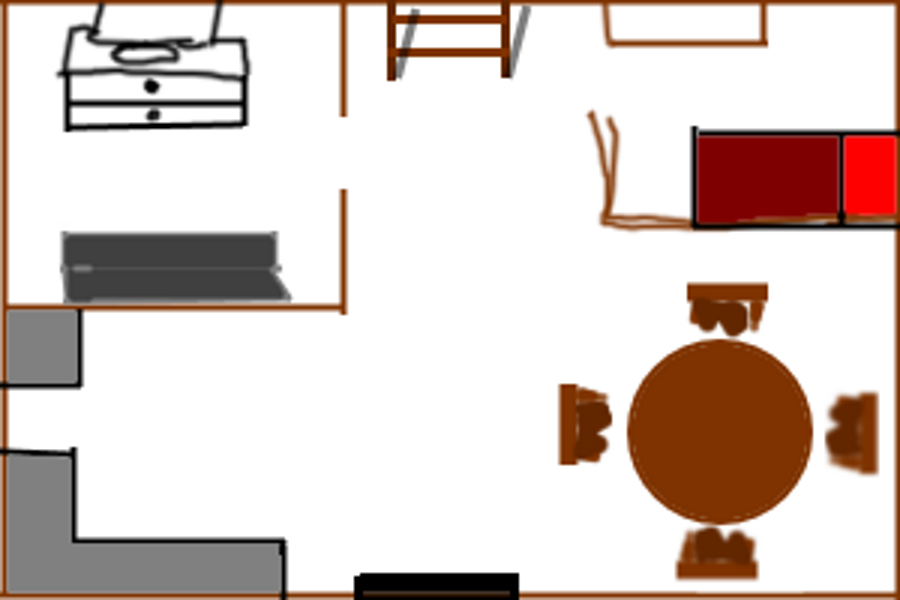
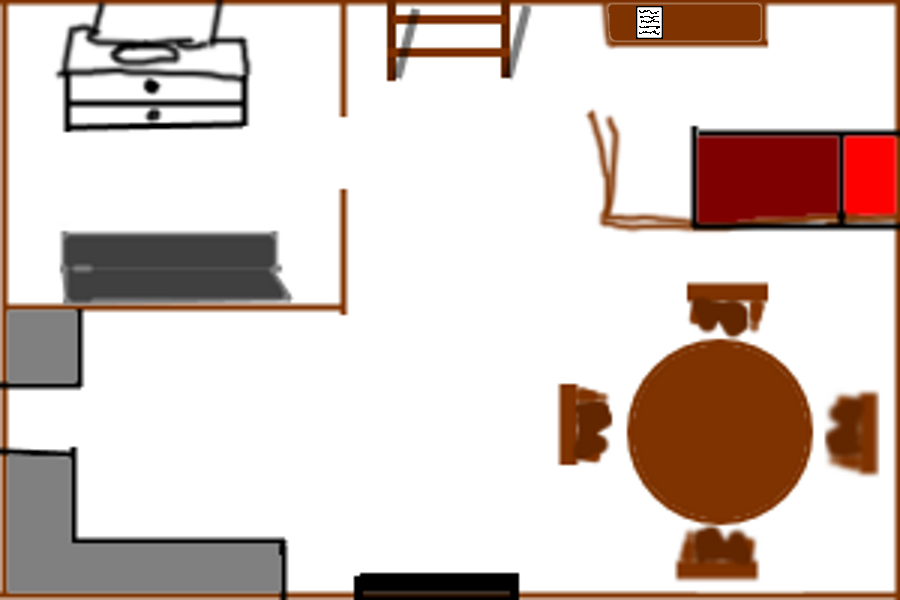
added a bunch of graphics
zombie models, more dialogue, updated a typing error, added the note, added the base screen for the battle. and fixed a bunch of bugs

Changed region(s): [[0.6533, 0.0, 0.8711, 0.09]]

diff --git a/script.js b/script.js
@@ -39,17 +39,23 @@ var inventoryOpen = false // is the inventory open
 var inventorySelection = 0 // what is selected in the inventory
 var tvToggle = 0 // 0 = off 1 = on
 var dialogueOpen = false
+var toggleNote = false
 var diologueNumber = 0
 //#region diologue Numbers
 // 0 = cant go upstairs in house
 // 1 = go to sleep
-// 2 = 						
+// 2 = the note on the desk
+// 3 = cant go to sleep
 //#endregion
 var dia0 = new Image()
-dia0.src = 'dialogue/dia0.png'																																																																																																																																																																																																																																																																	
+dia0.src = 'dialogue/dia0.png'
+var dia3 = new Image()
+dia3.src = 'dialogue/dia3.png'
+
 
 var BGxPosition = 0
 var BGyPosition = 0
+var startingStage = 0
 
 // variables for the house in the game
 var houseBackground = new Image()
@@ -64,6 +70,10 @@ var tvOff = new Image()
 tvOff.src = 'insideHouse/tvOff.png'
 var tvOn = new Image()
 tvOn.src = 'insideHouse/tvOn.png'
+var deskWithNote = new Image()
+deskWithNote.src = 'insideHouse/DeskWithNote.png'
+var note = new Image()
+note.src = 'insideHouse/Note.png'
 
 var bedXPosition = 0 // width = 210
 var bedYPosition = 0 // height = 102
@@ -73,17 +83,23 @@ var stairsXPosition = 0 // width = 156
 var stairsYPosition = 0 // height = 93
 var doorXPosition = 0 // width = 165
 var doorYPosition = 0 // height = 27
+var deskXPosition = 0 // width = 182
+var deskYPosition = 0 // height = 54
 
 // variables used for mars in the game
 var marsHouseDoor = new Image()
 marsHouseDoor.src = 'mars/yourHosueDoor.png'
 var marsFoodCafe = new Image()
 marsFoodCafe.src = 'mars/buyFromCafe.png'
+var lieutenant = new Image()
+lieutenant.src = 'characters/lieutenant.png'
 
 var marsDoorXPosition = 0 // width = 133
 var marsDoorYPosition = 0 // height = 200
 var cafeXPosition = 0 // width = 263
 var cafeYPosition = 0 // height = 148
+var lieutenantXPosition = 0 // width = 92
+var lieutenantYPosition = 0 // height = 127
 
 //tutorial variables
 var tutorialScreen = 0
@@ -173,6 +189,12 @@ var astronautLeft = new Image()
 astronautLeft.src = 'characters/astronautLeft.png'
 var astronautRight = new Image()
 astronautRight.src = 'characters/astronautRight.png'
+var zombieIdle = new Image()
+zombieIdle.src = 'zombies/zombie_idle.png'
+var zombieFlex = new Image()
+zombieFlex.src = 'zombies/zombie_flex.png'
+var zombieMoving = new Image()
+zombieMoving.src = 'zombies/zombie_moving.png'
 //#endregion
 
 //#region lore backgrounds
@@ -188,6 +210,9 @@ var P5 = new Image()
 P5.src = 'backgrounds/P5.png' // mars
 var P6 = new Image()
 P6.src = 'backgrounds/P6.png' // earth jungle
+
+var battle = new Image()
+battle.src = 'ExtraResources/Battle.png'
 //#endregion
 
 var marsBackground = new Image()
@@ -218,24 +243,27 @@ function updateCanvas(){
 	detectStairsCollision()
 	detectTVCollision()	
 	detectDoorCollision()
+	detectDeskCollision()
 	marsThings()
 	detectMarsDoorCollision()
 	detectCafeCollision()
 	updateMarsPositions()
 	manageInventory()
 
-
-
+	//console.log(zPressed) //this is my testing console.log
 
 	chracterFacing()
+	toggleNoteF()
 
 	ctx.strokeStyle = "rgb(0,255,0)" // Draw the hitboxes bright green
-	ctx.strokeRect(tvXPosition, tvYPosition, 225, 141)
-	ctx.strokeRect(bedXPosition, bedYPosition, 210, 102)
-	ctx.strokeRect(stairsXPosition, stairsYPosition, 156, 93)
-	ctx.strokeRect(doorXPosition, doorYPosition, 165, 27)
-	ctx.strokeRect(marsDoorXPosition,marsDoorYPosition, 133, 200)
-	ctx.strokeRect(cafeXPosition, cafeYPosition,263, 148)
+	ctx.strokeRect(tvXPosition, tvYPosition, 225, 141) // tv
+	ctx.strokeRect(bedXPosition, bedYPosition, 210, 102) // bed
+	ctx.strokeRect(stairsXPosition, stairsYPosition, 156, 93) // stairs
+	ctx.strokeRect(doorXPosition, doorYPosition, 165, 27) // door
+	ctx.strokeRect(marsDoorXPosition,marsDoorYPosition, 133, 200) // mars
+	ctx.strokeRect(cafeXPosition, cafeYPosition,263, 148) // cafe
+	ctx.strokeRect(deskXPosition, deskYPosition, 182, 54) // desk
+	ctx.strokeRect(lieutenantXPosition,lieutenantYPosition,PLAYERWIDTH,PLAYERHEIGHT)
 }
 
 //#region tutorialthings
@@ -359,9 +387,11 @@ function checkStage(){
 		if (goodCode){
 			ctx.drawImage(saveLoaded,0,100,640,100)
 		}
+	} else if (stage == 69){
+		ctx.drawImage(battle, 0,0,WIDTH,HEIGHT)
 	}
 }
- function manageInventory(){
+function manageInventory(){
 	if(stage == 4 || stage == 5 || stage == 6){ // only in active game states
 		if (!inventoryOpen){ // if the inventory isnt open
 			ctx.drawImage(inventoryClosed,0,0) // draw the image of it closed
@@ -468,12 +498,15 @@ function updateHousePositions(){
 	stairsYPosition = BGyPosition
 	doorXPosition = BGxPosition + 355
 	doorYPosition = BGyPosition + 575
+	deskXPosition = BGxPosition + 590
+	deskYPosition = BGyPosition
 }
 function houseThings(){
 	if (stage == 5){
 		ctx.drawImage(houseDoor, doorXPosition, doorYPosition)
 		ctx.drawImage(houseBed, bedXPosition, bedYPosition)
 		ctx.drawImage(houseStairs, stairsXPosition, stairsYPosition)
+		ctx.drawImage(deskWithNote, deskXPosition, deskYPosition)
 		if (tvToggle == 0){
 			ctx.drawImage(tvOff, tvXPosition, tvYPosition)
 		} else if (tvToggle == 1){
@@ -481,16 +514,47 @@ function houseThings(){
 		}
 	}
 }
+function toggleNoteF(){
+	if (stage == 5){
+		if (toggleNote == true){
+			if (diologueNumber == 2){
+				ctx.drawImage(note,0,0,WIDTH,HEIGHT)
+				setTimeout(() => {checkZ();}, 250)
+			} else if (diologueNumber == 0){
+				ctx.drawImage(dia0,0,0, WIDTH,HEIGHT)
+				console.log("Second floor")
+				setTimeout(() => {checkZ();}, 250)
+			} else if (diologueNumber == 1){
+
+			} else if (diologueNumber == 3){
+				ctx.drawImage(dia3, 0,0,WIDTH,HEIGHT)
+				setTimeout(() => {checkZ();}, 250)
+			}
+		}
+		else {
+			return;
+		}
+	}
+}
+function checkZ(){
+	if (zPressed == true){
+		toggleNote = false
+		dialogueOpen = false
+	}
+}
 function updateMarsPositions(){
 	marsDoorXPosition = BGxPosition +  2410
 	marsDoorYPosition = BGyPosition + 559
 	cafeXPosition = BGxPosition + 570
 	cafeYPosition = BGyPosition + 1633
+	lieutenantXPosition = BGxPosition + 2200
+	lieutenantYPosition = BGyPosition + 2500
 }
 function marsThings(){
 	if (stage == 4){
 		ctx.drawImage(marsHouseDoor, marsDoorXPosition, marsDoorYPosition)
 		ctx.drawImage(marsFoodCafe, cafeXPosition, cafeYPosition)
+		ctx.drawImage(lieutenant, lieutenantXPosition, lieutenantYPosition, PLAYERWIDTH, PLAYERHEIGHT)
 	}
 }
 
@@ -504,6 +568,19 @@ function detectMarsDoorCollision(){
 			return(true)
 		}else{
 			//console.log("not touching mars door")
+			return(false)
+		}
+	}
+}
+function detectLieutenantCollision(){
+	if (stage == 4){
+		if(PLAYERXPOSITION + PLAYERWIDTH >= lieutenantXPosition && PLAYERYPOSITION + PLAYERHEIGHT >= lieutenantYPosition && PLAYERXPOSITION <= lieutenantXPosition + PLAYERWIDTH && PLAYERYPOSITION <= lieutenantYPosition + PLAYERHEIGHT)
+		{
+			ctx.drawImage(interactButton, PLAYERXPOSITION + 15, PLAYERYPOSITION - 30, 25, 25)
+			console.log("touching lieutenant")
+			return(true)
+		}else{
+			console.log("not touching lieutenant")
 			return(false)
 		}
 	}
@@ -523,6 +600,19 @@ function detectCafeCollision(){
 }
 //#endregion
 //#region house object collisions
+function detectDeskCollision(){
+	if (stage == 5){
+		if(PLAYERXPOSITION + PLAYERWIDTH >= deskXPosition && PLAYERYPOSITION + PLAYERHEIGHT >= deskYPosition && PLAYERXPOSITION <= deskXPosition + 182 && PLAYERYPOSITION <= deskYPosition + 54)
+		{
+			ctx.drawImage(interactButton, PLAYERXPOSITION + 15, PLAYERYPOSITION - 30, 25, 25)
+			//console.log("touching bed")
+			return(true)
+		}else{
+			//console.log("not touching bed")
+			return(false)
+		}
+	}
+}
 function detectBedCollision(){
 	if (stage == 5){
 		if(PLAYERXPOSITION + PLAYERWIDTH >= bedXPosition && PLAYERYPOSITION + PLAYERHEIGHT >= bedYPosition && PLAYERXPOSITION <= bedXPosition + 210 && PLAYERYPOSITION <= bedYPosition + 102)
@@ -604,7 +694,7 @@ function submitCode(){
 			warningText.innerHTML = "Please enter a code <br> Press x to close this notice"
 		} else { // if there is a code it checks it with the following list
 			if(codeInput == "121231234"){ // will send you to the first stage on earth
-				codeSelection = 0
+				startingStage = 1
 				console.log("good code")
 				goodCode = true
 				var warningText = document.getElementById("warningText")
@@ -614,7 +704,7 @@ function submitCode(){
 				BGxPosition = 69 //change this
 				BGyPosition = 420 // and this
 			} else if (codeInput == "othercode"){ // sends you to second stage on earth
-				codeSelection = 1
+				startingStage = 2
 				console.log("good code")
 				goodCode = true
 				var warningText = document.getElementById("warningText")
@@ -624,7 +714,7 @@ function submitCode(){
 				BGxPosition = 420 // and this
 				BGyPosition = 69 // and this
 			} else if (codeInput == "asdasd"){ // sends you to right before final boss battle
-				codeSelection = 2
+				startingStage = 3
 				console.log("good code")
 				goodCode = true
 				var warningText = document.getElementById("warningText")
@@ -762,6 +852,7 @@ function inGameFunction(keyboardEvent){
 			}
 		} 
 		if (keyDown == 'z' || keyDown == 'Z'){
+			zPressed = true
 			if (inventoryOpen){ // if inventory is open
 				if (inventorySelection == 0) { // open team
 					console.log("go to team")
@@ -770,17 +861,28 @@ function inGameFunction(keyboardEvent){
 					console.log("go to items")
 					//open items menu
 				} else if (inventorySelection == 2) { // save game
-					console.log("save game")
-					// give save code based off what stage you are on
+					if (stage == 5){
+						console.log("Its too early to save now")
+					} else if (stage == 6){
+						console.log("Saved Stage: Give code: 121231234")
+					} else if (stage == 7){
+						console.log("Saved Stage: Give code: othercode")
+					} else if (stage == 8){
+						console.log("Saved Stage: Give code: asdasd")
+					}
 				}
 			} else if (!inventoryOpen) { // if inventory is closed
 				if (stage == 5){ // if in the house
 					if (detectBedCollision()){// if touching bed
-						// give the bed diologue.
-						console.log("Want to sleep little cry boy")
+						toggleNote = true
+						dialogueOpen = true
+						diologueNumber = 3
 					}
 					if (detectStairsCollision()){ // if touching stairs
-						console.log("The second floor hasnt been built yet. Please come back later")
+						//console.log("The second floor hasnt been built yet. Please come back later")
+						toggleNote = true
+						dialogueOpen = true
+						diologueNumber = 0
 					}
 					if (detectDoorCollision()){ // if touching door
 						console.log("want to go outside")
@@ -794,6 +896,12 @@ function inGameFunction(keyboardEvent){
 						} else if (tvToggle == 0){
 							tvToggle = 1
 						}
+					}
+					if (detectDeskCollision()){
+						console.log("open the note on the desk")
+						diologueNumber = 2
+						dialogueOpen = true
+						toggleNote = true
 					}
 				} else if (stage == 4) { // if on mars
 					if (detectMarsDoorCollision()){
@@ -820,10 +928,11 @@ function inGameFunction(keyboardEvent){
 		}
 	}
 }
-
-
 function keyDownFunction(keyboardEvent){
 	var keyDown = keyboardEvent.key
+	if (keyDown == 'o'){
+		stage = 69 // the test scene for the game, i just wanna make sure it works
+	}
 	if (keyDown == 'x' || keyDown == 'X'){
 		var warningText = document.getElementById("warningText")
 		var errorCode = document.getElementById("errorCode")
@@ -849,11 +958,15 @@ function keyDownFunction(keyboardEvent){
 		}	
 		if (keyDown == 'z' || keyDown == 'Z'){ // pressing z will send you to different screens depending on where the selector is.
 			if(playerSelection == 0){
-				if (codeSelection == 0){ // start from the beginning
+				if (startingStage == 0){
+					BGxPosition = -500
+					BGyPosition = 130
 					stage = 5
-				} else if (codeSelection == 1){ //start from stage one on earth
+				} else if (startingStage == 1){ // start from stage three earth
+					stage = 6
+				} else if (startingStage == 2){ //start from stage two earth
 
-				} else if (codeSelection == 2){ // start from stage two on earth
+				} else if (startingStage == 3){ // start from right before boss battle
 
 				}
 			} else if (playerSelection == 1){ // go to tutorial
